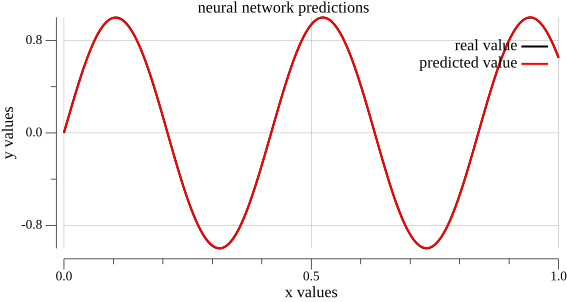
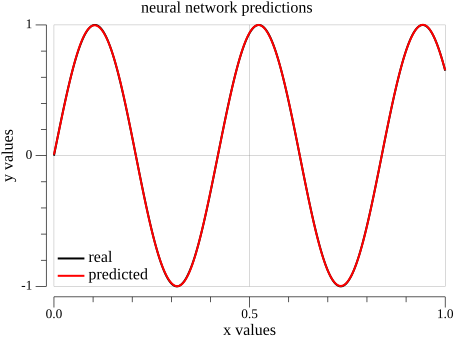
axis limits added to plot

Changed region(s): [[0.0, 0.0, 1.0, 1.0], [0.8018, 0.5066, 0.8326, 0.6854], [0.3084, 0.5364, 0.3392, 0.7152]]

diff --git a/plot/plotter.go b/plot/plotter.go
@@ -1,0 +1,86 @@
+package plot
+
+import (
+	"image/color"
+	"log"
+
+	"gonum.org/v1/plot"
+	"gonum.org/v1/plot/font"
+	"gonum.org/v1/plot/plotter"
+	"gonum.org/v1/plot/vg"
+)
+
+// default colors
+var colors = []color.Color{
+	color.RGBA{0.0, 0.0, 0.0, 255},
+	color.RGBA{255, 0.0, 0.0, 255},
+	color.RGBA{122, 195, 106, 255},
+	color.RGBA{90, 155, 212, 255},
+	color.RGBA{250, 167, 91, 255},
+	color.RGBA{158, 103, 171, 255},
+	color.RGBA{206, 112, 88, 255},
+	color.RGBA{215, 127, 180, 255},
+}
+
+// save the plot to a PNG file
+func (plt *plotParameters) Save(name string) {
+	// create a new plot, set its title and axis labels
+	p := plot.New()
+	p.Title.Text = plt.title
+	p.X.Label.Text = plt.axisLabel.xlabel
+	p.Y.Label.Text = plt.axisLabel.ylabel
+
+	// set the axis limits
+	if plt.axisLimit.useXLim {
+		p.X.Min = plt.axisLimit.xmin
+		p.X.Max = plt.axisLimit.xmax
+	}
+	if plt.axisLimit.useYLim {
+		p.Y.Min = plt.axisLimit.ymin
+		p.Y.Max = plt.axisLimit.ymax
+	}
+
+	// make a line plotter
+	plt.linePlot(p)
+
+	// save the plot to a PNG file.
+	xwdith := font.Length(plt.figSize.xwidth) * vg.Centimeter
+	ywdith := font.Length(plt.figSize.ywidth) * vg.Centimeter
+	err := p.Save(xwdith, ywdith, name)
+	if err != nil {
+		log.Panic(err)
+	}
+}
+
+func (plt *plotParameters) linePlot(p *plot.Plot) {
+	// draw a grid behind the data
+	p.Add(plotter.NewGrid())
+
+	// various plots to the figure
+	lines := []*plotter.Line{}
+	for nplot := 0; nplot < len(plt.plotData.x); nplot++ {
+		pts := make(plotter.XYs, len(plt.plotData.x[nplot]))
+		for j := range pts {
+			pts[j].X = plt.plotData.x[nplot][j]
+			pts[j].Y = plt.plotData.y[nplot][j]
+		}
+
+		// make a line plotter with points and set its style.
+		line, _, _ := plotter.NewLinePoints(pts)
+		line.Color = colors[nplot]
+		line.LineStyle.Width = vg.Points(1.5)
+		lines = append(lines, line)
+
+		// add the plotters to the plot, with a legend
+		p.Add(line)
+	}
+
+	// legend style
+	for i, legend := range plt.legend {
+		p.Legend.Add(legend, lines[i])
+	}
+	p.Legend.XOffs = vg.Millimeter
+	p.Legend.YOffs = vg.Millimeter
+	p.Legend.Padding = vg.Millimeter
+	p.Legend.Left = true
+}

diff --git a/plot/source.go b/plot/source.go
@@ -1,0 +1,72 @@
+package plot
+
+type plotParameters struct {
+	plotData  plotData  // data for lines plot
+	title     string    // title plot
+	legend    []string  // mainly used in lines plots
+	axisLabel axisLabel // xlabel and ylabel for all plots
+	axisLimit axisLimit // x-axis and y-axis limits
+	figSize   figSize   // xwidth and ywidth of the saved figure
+}
+
+type plotData struct{ x, y [][]float64 }
+type axisLabel struct{ xlabel, ylabel string }
+type figSize struct{ xwidth, ywidth int }
+type axisLimit struct {
+	xmin, xmax, ymin, ymax float64
+	useXLim, useYLim       bool
+}
+
+func NewPlot() plotParameters {
+	return plotParameters{}
+}
+
+// parameters to lines plots
+func (plt *plotParameters) Plot(x []float64, y []float64) {
+	plt.plotData.x = append(plt.plotData.x, x)
+	plt.plotData.y = append(plt.plotData.y, y)
+}
+
+// size of the saved figure
+func (plt *plotParameters) FigSize(xwidth, ywidth int) {
+	plt.figSize.xwidth = xwidth
+	plt.figSize.ywidth = ywidth
+}
+
+// title for all plots
+func (plt *plotParameters) Title(str string) {
+	plt.title = str
+}
+
+// xlabel for all plots
+func (plt *plotParameters) XLabel(xlabel string) {
+	plt.axisLabel.xlabel = xlabel
+}
+
+// ylabel for all plots
+func (plt *plotParameters) YLabel(ylabel string) {
+	plt.axisLabel.ylabel = ylabel
+}
+
+// legend mainly used in lines plots
+func (plt *plotParameters) Legend(str ...string) {
+	plt.legend = append(plt.legend, str...)
+}
+
+// set the x-axis vies limits
+func (plt *plotParameters) XLim(xmin, xmax float64) {
+	if xmin < xmax {
+		plt.axisLimit.xmin = xmin
+		plt.axisLimit.xmax = xmax
+		plt.axisLimit.useXLim = true
+	}
+}
+
+// set the x-axis vies limits
+func (plt *plotParameters) YLim(ymin, ymax float64) {
+	if ymin < ymax {
+		plt.axisLimit.ymin = ymin
+		plt.axisLimit.ymax = ymax
+		plt.axisLimit.useYLim = true
+	}
+}

diff --git a/main.go b/main.go
@@ -50,17 +50,17 @@ func main() {
 
 	// plotting
 	plt := plot.NewPlot()
-	plt.FigSize(15, 8)
+	plt.FigSize(12, 9)
 
 	plt.Plot(x_train.RawMatrix().Data, y_train.RawMatrix().Data)
 	plt.Plot(x_train.RawMatrix().Data, predictions.RawMatrix().Data)
 	plt.Title("neural network predictions")
 	plt.XLabel("x values")
 	plt.YLabel("y values")
-	plt.Legend("real value", "predicted value")
+	plt.Legend("real", "predicted")
+	plt.XLim( 0.0, 1.0)
+	plt.YLim(-1.0, 1.0)
 
 	plt.Save("plot.png")
 
-	// load neural network model from file
-	// model := network.Load("model.json")
 }